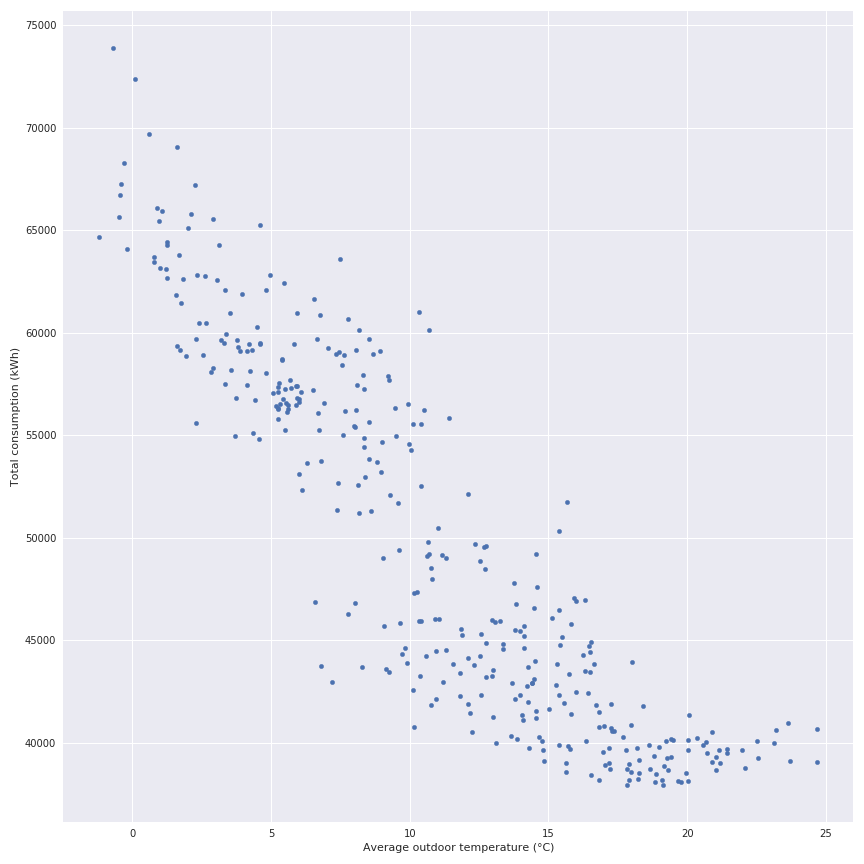
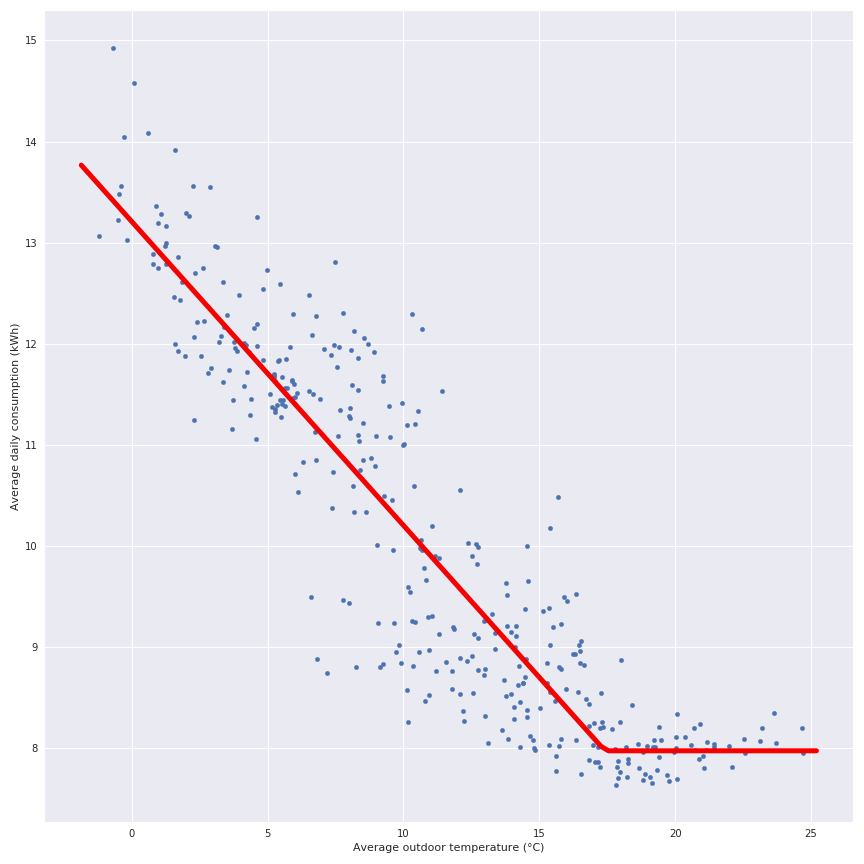
updqte

diff --git a/_posts/2018-01-28-Londonsmartmeter.md b/_posts/2018-01-28-Londonsmartmeter.md
@@ -107,25 +107,84 @@ The decision has been done to use the Households that possess at least 357 days,
 
 ## Overview of the panel
 
-One of the first realisation is to display the global consumption of these households during the year of 2013, in the following figure there is the daily global consumption of these households during the period.
+One of the first realisation is to display the average consumption per day of these households during the year of 2013, in the following figure there is the average global consumption of these households during the period.
 
 <center>
 <img src="{{ site.baseurl }}/img/posts/london_sm/timeseries_sumall.png" />
-<h6><i>Daily consumption of the households</i></h6>
+<h6><i>Average daily consumption of the households </i></h6>
 </center>
 
 **Notes**: This is obvious that there is a link between the electrical consumption and the day of the year (same result than in my [previous article]("http://jmdaignan.com/2017/10/20/Make-a-forecast-system-of-the-national-energy-consumption/")). The seasonal effect is very clear so in this panel there is a lot of people that are using the electricity as an heating source. If the average daily outdoor temperature and the total daily consumption of the panel are crossed, the following figure display the relation:
 <center>
 <img src="{{ site.baseurl }}/img/posts/london_sm/ptg_like.png" />
-<h6><i>Daily consumption X Outdoor temperature</i></h6>
+<h6><i>Daily consumption X Outdoor temperature (in red the ptg of the global behaviour) </i></h6>
+</center>
+
+This general observation offers a clear vision that the PTG (The red plot) from the [previous article]("http://jmdaignan.com/2017/10/20/Make-a-forecast-system-of-the-national-energy-consumption/") can ba calculated for each household.In the following figure, there is a representation of the daily consumption and the ptg associated to this household (and theri r² score).
+<center>
+<img src="{{ site.baseurl }}/img/posts/london_sm/ptg_randomhouseholds.png" />
+<h6><i>Consumption X outdoor temperature for random households (in red the associated ptg model for the household and in yellow the general ptg)</i></h6>
+</center>
+
+**Notes**: This is a good illustration that for some households the r² score is working great (this household should have a electric system) but for some households it doesn't work at all. The general model issued from the average daily consumption (the yellow curve) illustrates that average daily consumption doesn't represent the general behaviour of the households.In the folowing figure there is the scatter plot of the pivot temperature in function of the r² score.
+
+<center>
+<img src="{{ site.baseurl }}/img/posts/london_sm/ptg_result.png" />
+<h6><i>Pivot temperature X r² score</i></h6>
+</center>
+
+
+
+
+
+
+Another way to identify the households that have an electric heating system could be to compare the average consumption during the winter and the summer and make a simple ratio between these two consumptions.The data have been crossed with the informations of the households, and there is an extract of the new dataset.
+
+<center>
+<img src="{{ site.baseurl }}/img/posts/london_sm/df_crossdata.png" />
+<h6><i>Preview of the dataset</i></h6>
+</center>
+
+In this dataframe, there is:
+
+- model_a the slope of the ptg model (in the winter part)
+- model_b the intersection of the ptg models
+- model_x0 the temperature of regime switch
+- r2score the r² score of the ptg model on the household
+- season_0 the average consumption in winter
+- season_1 the average consumption in spring
+- season_2 the average consumption in summer
+- season_3 the average consumption in autumn
+- ratio_winter_summer the ratio of the consumption winter/ration_winter_summer
+- stdorToU the type of tariff
+- Acorn the ACORN group
+- Acorn_grouped tha aggregated ACORN groups
+
+
+There is a serious amount of data to cross so in the following figure there is a pair plot that cross all this data andfilter thme in function of the Acorn_grouped.
+<center>
+<img src="{{ site.baseurl }}/img/posts/london_sm/pairplot_dfcross.png" />
+<h6><i>Pairplot of the different parameters </i></h6>
+</center>
+
+**Notes**: There is no obvious relation between all this index that defined the households except between the season_0 and the model_b but this two are winter related so that's normal.But there is no link between these indexes and the Acorn_grouped, the result is similar with the Acorn, that's a shame.
+
+<center>
+<img src="https://media.giphy.com/media/Ob7p7lDT99cd2/giphy.gif" />
 </center>
 
 # Next steps
 As you can see this first exploration of the dataset has highlighted a lot of characteristic of the electrical consumption in London like the influence of the weather in this consumption.
 
 Some ideas for the next analytics:
+
 - Cross the ACORN data and the smart meter data
 - Try to forecast the consumption of the different households
 - Add new datasets like:
   - [EPC]("https://epc.opendatacommunities.org/docs/api") data from London
   - extra data on London like some underground or train strike during the period
+- Make some clusterings in the households data and the energy profiles, as you can see in the following heatmap there is a "pattern" in the total consumption of these households.
+<center>
+<img src="{{ site.baseurl }}/img/posts/london_sm/heatmap.png" />
+<h6><i>Heatmap of the total consumption in function of the day of the year</i></h6>
+</center>
